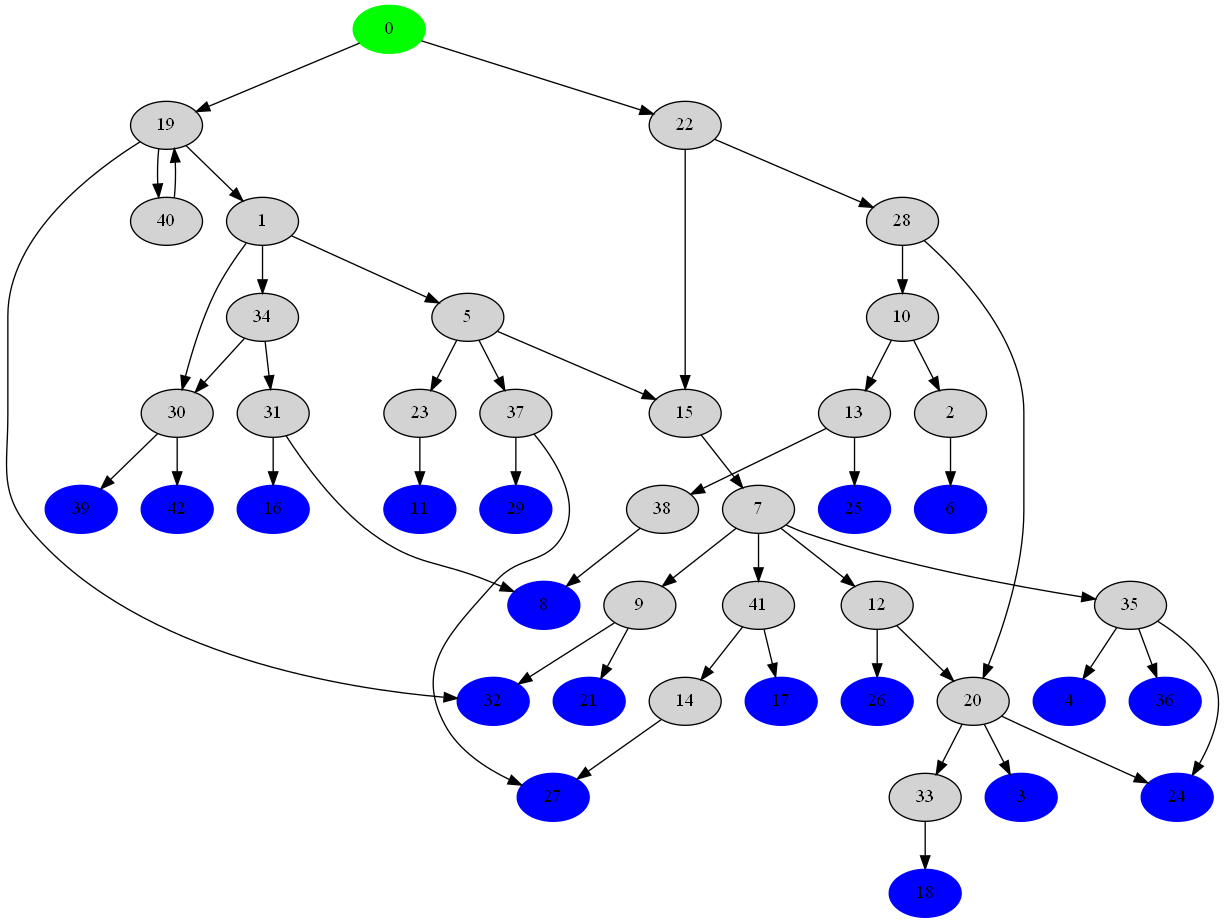
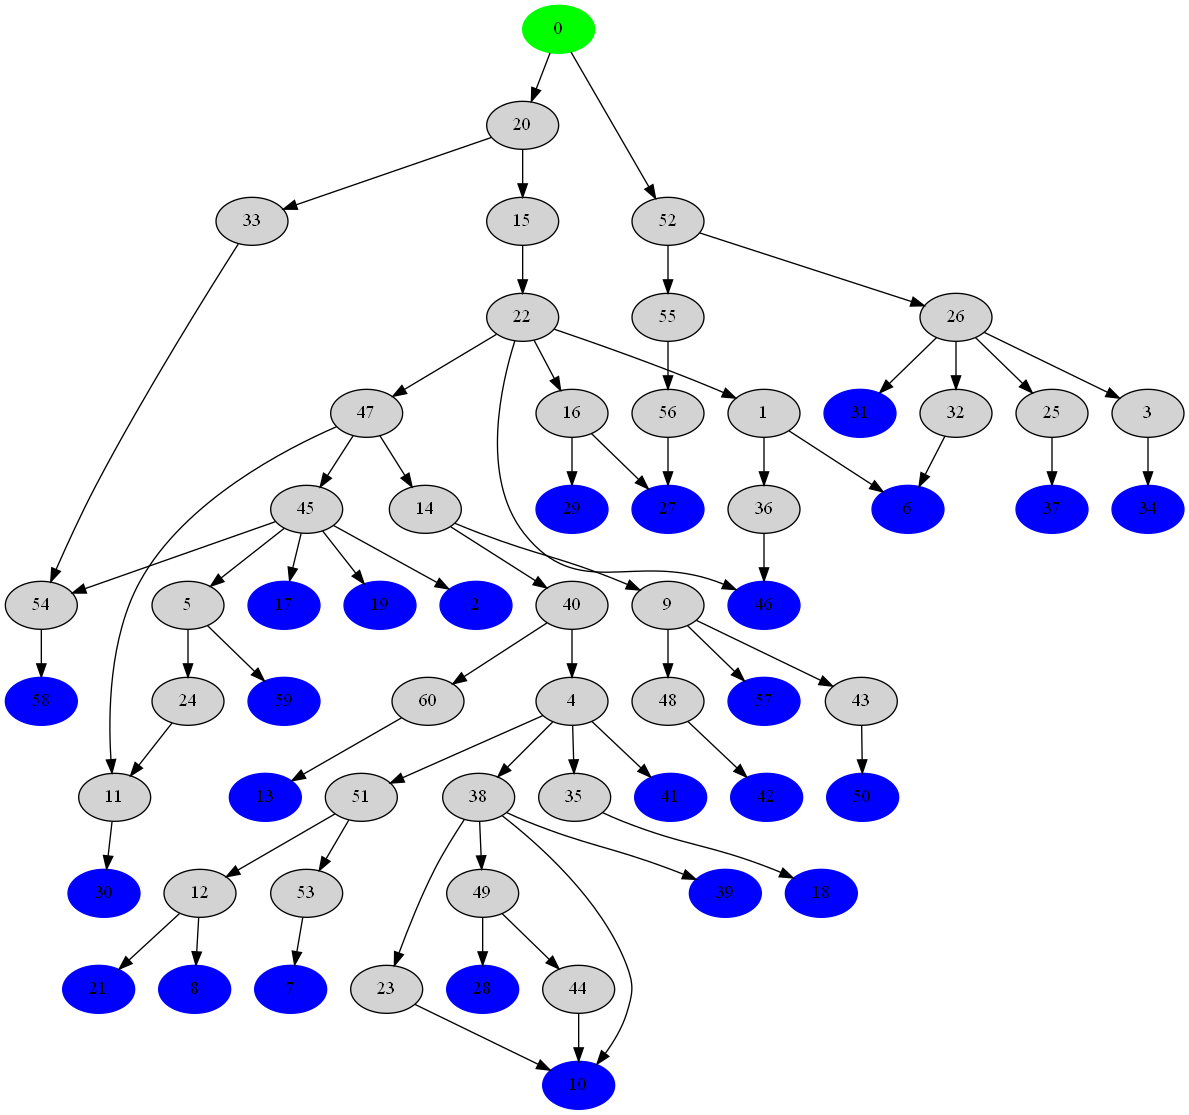
depth control

diff --git a/main.go b/main.go
@@ -2,6 +2,8 @@ package main
 
 import (
 	"fmt"
+	"log"
+	"math"
 	"math/rand"
 	"strings"
 	"time"
@@ -11,8 +13,9 @@ func init() {
 	rand.Seed(time.Now().UnixNano())
 }
 
-const sectionCount = 42
-const bridgesCount = sectionCount / 5
+const sectionCount = 60
+
+var magic = int(math.Sqrt(float64(sectionCount)))
 
 // Section of the interactive story
 type Section struct {
@@ -35,10 +38,10 @@ func NewSection(title string, index int) *Section {
 }
 
 func pickMaxExit() int {
-	exitsCountProbabilities := [5]float32{0.1, 0.25, 0.80, 0.95, 1.0}
+	exitsCountProbabilities := [5]float32{0.2, 0.4, 0.4, 0.1, 0.1}
 	n := rand.Float32()
 	i := 0
-	for n >= exitsCountProbabilities[i] {
+	for s := float32(0.0); n >= s; s += exitsCountProbabilities[i] {
 		i++
 	}
 	return i
@@ -51,6 +54,61 @@ func absint(n int) int {
 	return n
 }
 
+// Widths maps tree depths to widths
+type Widths map[int]int
+
+// NewWidths makes a new Widths map
+func NewWidths() Widths {
+	return make(map[int]int)
+}
+
+// Inc increments a level
+func (w Widths) Inc(level int) {
+	if _, ok := w[level]; !ok {
+		w[level] = 0
+	}
+	w[level]++
+}
+
+// Dec decrements a level
+func (w Widths) Dec(level int) {
+	if _, ok := w[level]; !ok {
+		w[level] = 0
+	} else {
+		w[level]--
+	}
+}
+
+// Get returns the width at a given depth
+func (w Widths) Get(level int) int {
+	if _, ok := w[level]; !ok {
+		w[level] = 0
+	}
+	return w[level]
+}
+
+// MaxDepth returns the maximum depth an the associated width
+func (w Widths) MaxDepth() (maxDepth, deepWidth int) {
+	for depth, width := range w {
+		if depth > maxDepth {
+			maxDepth = depth
+			deepWidth = width
+		}
+	}
+	return
+}
+
+// MaxWidth returns the maximum width and the associated depth
+func (w Widths) MaxWidth() (maxWidth, wideDepth int) {
+	for depth, width := range w {
+		if width > maxWidth {
+			maxWidth = width
+			wideDepth = depth
+		}
+	}
+	return
+}
+
 func main() {
 	sections := []*Section{}
 	root := NewSection("root", 0)
@@ -59,13 +117,16 @@ func main() {
 	}
 	sections = append(sections, root)
 
+	widths := NewWidths()
+
 	for i := 0; i < sectionCount; i++ {
 		sec := NewSection(fmt.Sprintf("section #%v", i+1), i+1)
 
 		for _, parent := range sections {
-			if len(parent.Exits) < parent.MaxExits && parent.Depth < sectionCount/3 {
+			if len(parent.Exits) < parent.MaxExits && widths.Get(parent.Depth+1) < magic {
 				parent.Exits = append(parent.Exits, sec)
 				sec.Depth = parent.Depth + 1
+				widths.Inc(sec.Depth)
 				sec.Parent = parent
 				sections = append(sections, sec)
 				break
@@ -76,6 +137,7 @@ func main() {
 			sections[n].MaxExits++
 			sections[n].Exits = append(sections[n].Exits, sec)
 			sec.Depth = sections[n].Depth + 1
+			widths.Inc(sections[n].Depth + 1)
 			sec.Parent = sections[n]
 			sections = append(sections, sec)
 		}
@@ -85,26 +147,35 @@ func main() {
 		sections[i+1].Index = val + 1
 	}
 
-	for i := 0; i < bridgesCount; i++ {
+	for i := 0; i < magic; i++ {
 		sec := sections[rand.Intn(len(sections))]
 		bridge := sec
 		for bridge == sec || absint(bridge.Depth-sec.Depth) > 2 {
 			bridge = sections[rand.Intn(len(sections))]
 		}
 		sec.Exits = append(sec.Exits, bridge)
-		if bridge.Depth < sec.Depth+1 {
+		if bridge.Depth > sec.Depth+1 {
+			widths.Dec(bridge.Depth)
 			bridge.Depth = sec.Depth + 1
+			widths.Inc(bridge.Depth)
 		}
 	}
 
 	fmt.Println("digraph sections {\nnode [style=filled]\n0 [color=green]")
 	for _, sec := range sections {
+		fmt.Printf("%v [label=\"%v\"", sec.Index, sec.Index)
 		if len(sec.Exits) == 0 {
-			fmt.Printf("%v [color=blue]\n", sec.Index)
+			fmt.Printf(",color=blue")
 		}
+		fmt.Println("]")
 		for _, exit := range sec.Exits {
 			fmt.Printf("%s%v -> %v\n", strings.Repeat(" ", sec.Depth), sec.Index, exit.Index)
 		}
 	}
 	fmt.Println("}")
+
+	md, dw := widths.MaxDepth()
+	mw, wd := widths.MaxWidth()
+	log.Printf("w.MaxDepth() = %v, %v\n", md, dw)
+	log.Printf("w.MaxWidth() = %v, %v\n", mw, wd)
 }
